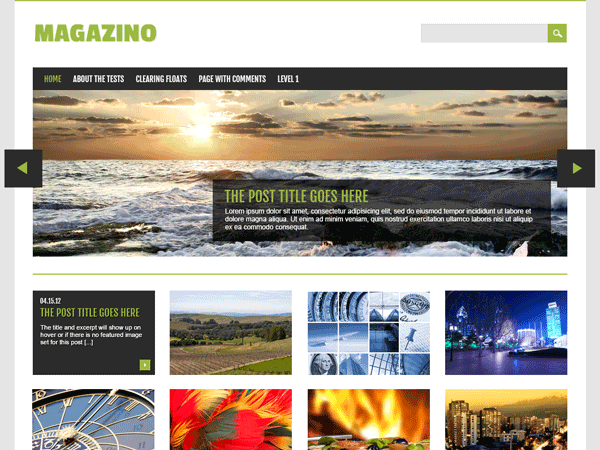
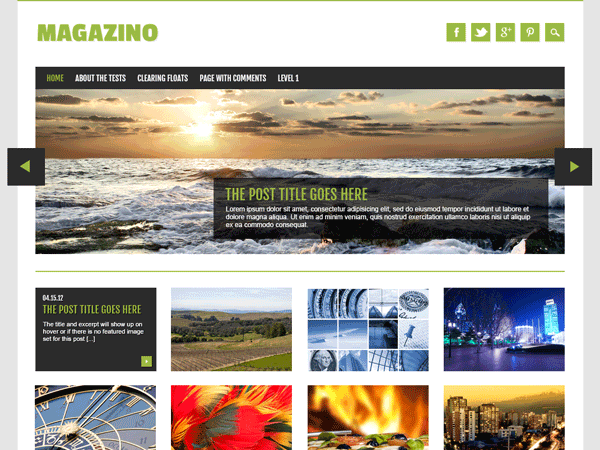
Version 1.0.1.

diff --git a/library/js/scripts.js b/library/js/scripts.js
@@ -1,3 +1,62 @@
+//
+function ScaleImage(srcwidth, srcheight, targetwidth, targetheight, fLetterBox) {
+  var result = { width:0, height:0, fScaleToTargetWidth:true, targetleft:"0px", targettop:"0px" };
+  //
+  if ((srcwidth <= 0) || (srcheight <= 0) || (targetwidth <= 0) || (targetheight <= 0)) {
+      return result;
+  }
+  // scale to the target width
+  var scaleX1 = targetwidth;
+  var scaleY1 = (srcheight * targetwidth) / srcwidth;
+  // scale to the target height
+  var scaleX2 = (srcwidth * targetheight) / srcheight;
+  var scaleY2 = targetheight;
+  //
+  // now figure out which one we should use
+  var fScaleOnWidth = (scaleX2 > targetwidth);
+  if (fScaleOnWidth) {fScaleOnWidth = fLetterBox;}
+  else               {fScaleOnWidth = !fLetterBox;}
+  //
+  if (fScaleOnWidth) {
+    result.width  = Math.floor(scaleX1);
+    result.height = Math.floor(scaleY1);
+    result.fScaleToTargetWidth = true;
+  }
+  else {
+    result.width  = Math.floor(scaleX2);
+    result.height = Math.floor(scaleY2);
+    result.fScaleToTargetWidth = false;
+  }
+  result.targetleft = Math.floor((targetwidth - result.width) / 2);
+  result.targettop  = Math.floor((targetheight - result.height) / 2);
+  return result;
+}
+
+function thumb_img_onload(hlimg) {
+
+  var t = new Image(); t.src = hlimg.src; hlimg.width = t.width; hlimg.height = t.height;
+
+  var result = ScaleImage(hlimg.width, hlimg.height, 250, 190, false);
+  hlimg.width      = result.width;
+  hlimg.height     = result.height;
+  hlimg.style.left = result.targetleft + "px";
+  hlimg.style.top  = result.targettop  + "px";
+  hlimg.style.visibility = 'visible';
+}
+
+function feat_img_onload(hlimg) {
+
+  var t = new Image(); t.src = hlimg.src; hlimg.width = t.width; hlimg.height = t.height;
+
+  var result = ScaleImage(hlimg.width, hlimg.height, 1000, 600, false);
+  hlimg.width      = result.width;
+  hlimg.height     = result.height;
+  hlimg.style.left = result.targetleft + "px";
+  hlimg.style.top  = result.targettop  + "px";
+  hlimg.style.visibility = 'visible';
+}
+
+
 jQuery(document).ready(function($){
 	
 	/* prepend menu icon */

diff --git a/editor-style.css b/editor-style.css
@@ -31,6 +31,51 @@ h5 {
 
 .read-more {}
 
+table { 
+	border-collapse: collapse; 
+	border-spacing: 0; 
+}
+
+td, 
+td img { 
+	vertical-align: top; 
+}
+
+table { 
+	width: 100%; 
+}
+
+table th { 
+	border-bottom: 2px solid #848484; 
+	text-align: left; 
+}
+
+table td { 
+	border-bottom: 1px solid #d0d0d0; 
+	padding: 5px; 
+}
+
+dl { 
+	margin: 1.75em 0 1.75em; 
+}
+
+dt { 
+	background-color: none;
+	font-style: italic; 
+	margin-top: 1.25em; 
+	font-size: 1.13em; 
+	font-weight: 700; 
+	border-bottom: 1px solid #999; 
+}
+
+dd { 
+	font-style: italic; 
+	font-size: .85em; 
+	margin-top: 1em; 
+	line-height: 1.6em; 
+}
+
+
 ul, ol, table, dl { margin: 1.5em 0; }
 ul, ol { list-style-position:outside; line-height:1.5; margin-left: 2.2em; margin-right: 2.2em; }
 li { margin-bottom: 0.75em; }
@@ -39,10 +84,7 @@ ol li { list-style-type: decimal; }
 			
 blockquote { font-style:italic; line-height:1.6em; margin: 1.5em 2.2em; }
 blockquote:before { font-family:Georgia, serif; content:open-quote; font-size:2.75em; text-indent:-.8em; margin-top:.1em; float:left; opacity:.3; }
-			
-dl { margin:1.75em 0 1.75em; }
-dt { font-style:italic; margin-top:1.25em; font-size:1.13em; font-weight:700; border-bottom:1px solid #999; background:#DDD; }
-dd { font-style:italic; font-size:.85em; margin-top:1em; line-height:1.6em; }
+
 			
 video { display: block; margin: 1.5em 0; max-width: 100%; }
 object { display: block; margin: 1.5em 0; max-width: 100%; }

diff --git a/style.css b/style.css
@@ -4,7 +4,7 @@ Theme URI: http://wpthemes.co.nz/magazino/
 Author: WPThemes NZ
 Author URI: http://wpthemes.co.nz/
 Description: Magazino is a simple and flexible theme ideally suited to magazine style blogs. It is responsive to browser size so should look good on any screen. It supports all the usual WordPress features like custom menus and widgets, and also makes it easy to customize with your own logo and you can set the main color scheme to any color you want with the built in color picker.
-Version: 1.0
+Version: 1.0.1
 License: GNU General Public License v2.0
 License URI: http://www.gnu.org/licenses/gpl-2.0.html
 Tags: custom-menu, sticky-post, microformats, rtl-language-support, translation-ready, full-width-template, post-formats
@@ -20,6 +20,7 @@ GENERAL LAYOUT STYLES
 ******************************************************************/
 
 body {
+	background-color: #e5e5e5;
 	font-family: Arial, Helvetica, sans-serif;
 	font-size: 13px;
 }
@@ -1693,7 +1694,12 @@ jQuery SLIDER STYLES
 	height: 290px;
 	overflow: hidden;
 }
+	.slides .slide-thumb {
+		position: relative;	
+	}
+	
 	.slides .slide-thumb img {
+		width: auto;
 		min-width: 100%;
 		height: auto;
 	}
@@ -2039,7 +2045,7 @@ URL: http://stuffandnonsense.co.uk/projects/320andup/
 @media only screen and (max-width: 496px) {
 	
 	article[id*=post-].post-box {
-		width: 88%;
+		width: 40%;
 		margin-right: 0;
 	}
 	

diff --git a/header.php b/header.php
@@ -17,7 +17,7 @@
 	
     <div id="search-box-wrap">
         <div id="search-box">
-           <div id="close-x"><?php _e( 'x', 'wpthemesconz' ); ?></div>
+           <div id="close-x"><?php _e( 'x', 'magazino' ); ?></div>
            <?php get_search_form(); ?>
         </div>
     </div>
@@ -26,9 +26,9 @@
       <div id="inner-header" class="clearfix">
 		<hgroup id="site-heading">
         	<?php if ( get_theme_mod( 'magazino_logo' ) ) : ?>
-            <div id="site-logo"><a href="<?php echo home_url( '/' ); ?>" title="<?php echo esc_attr( get_bloginfo( 'name', 'display' ) ); ?>" rel="home"><img src="<?php echo get_theme_mod( 'magazino_logo' ); ?>" alt="<?php echo esc_attr( get_bloginfo( 'name', 'display' ) ); ?>" /></a></div>
+            <div id="site-logo"><a href="<?php echo esc_url( home_url( '/' ) ); ?>" title="<?php echo esc_attr( get_bloginfo( 'name', 'display' ) ); ?>" rel="home"><img src="<?php echo esc_url( get_theme_mod( 'magazino_logo' ) ); ?>" alt="<?php echo esc_attr( get_bloginfo( 'name', 'display' ) ); ?>" /></a></div>
             <?php else : ?>
-			<div id="site-title"><a href="<?php echo home_url( '/' ); ?>" title="<?php echo esc_attr( get_bloginfo( 'name', 'display' ) ); ?>" rel="home"><?php bloginfo( 'name' ); ?></a></div>
+			<div id="site-title"><a href="<?php echo esc_url( home_url( '/' ) ); ?>" title="<?php echo esc_attr( get_bloginfo( 'name', 'display' ) ); ?>" rel="home"><?php bloginfo( 'name' ); ?></a></div>
             <?php endif; ?>
 		</hgroup>
         

diff --git a/index.php b/index.php
@@ -26,7 +26,7 @@
                     <div class="slides">
                       <div id="post-<?php the_ID(); ?>" <?php post_class('post-theme'); ?>>
                          <?php if ( has_post_thumbnail()) : ?>
-                            <div class="slide-thumb"><a href="<?php the_permalink(); ?>" title="<?php printf( esc_attr__( 'Permalink to %s', 'magazino' ), the_title_attribute( 'echo=0' ) ); ?>" rel="bookmark"><?php the_post_thumbnail( array(1000, 640) ); ?></a></div>
+                            <div class="slide-thumb"><a href="<?php the_permalink(); ?>" title="<?php printf( esc_attr__( 'Permalink to %s', 'magazino' ), the_title_attribute( 'echo=0' ) ); ?>" rel="bookmark"><?php the_post_thumbnail( array(1000, 640), array( 'style' => 'position:absolute', 'onload' => 'feat_img_onload(this)' ) ); ?></a></div>
                          <?php else : ?>
                             <div class="slide-noimg"><?php _e('No featured image set for this post.', 'magazino') ?></div>
                          <?php endif; ?>

diff --git a/content-home.php b/content-home.php
@@ -16,7 +16,7 @@
     
     <div class="go-button"><a href="<?php the_permalink(); ?>" title="<?php printf( esc_attr__( 'Permalink to %s', 'magazino' ), the_title_attribute( 'echo=0' ) ); ?>" rel="bookmark"><?php _e('&#9654;', 'magazino'); ?></a></div>
     
-    <div class="post-box-img"><a href="<?php the_permalink() ?>" rel="bookmark" title="<?php the_title_attribute(); ?>"><?php the_post_thumbnail( 'full' ); ?></a></div> 
+    <div class="post-box-img"><a href="<?php the_permalink() ?>" rel="bookmark" title="<?php the_title_attribute(); ?>"><?php the_post_thumbnail( array(250, 250), array( 'style' => 'position:absolute', 'onload' => 'thumb_img_onload(this)' ) ); ?></a></div> 
 
 </article><!-- #post-<?php the_ID(); ?> -->
     
